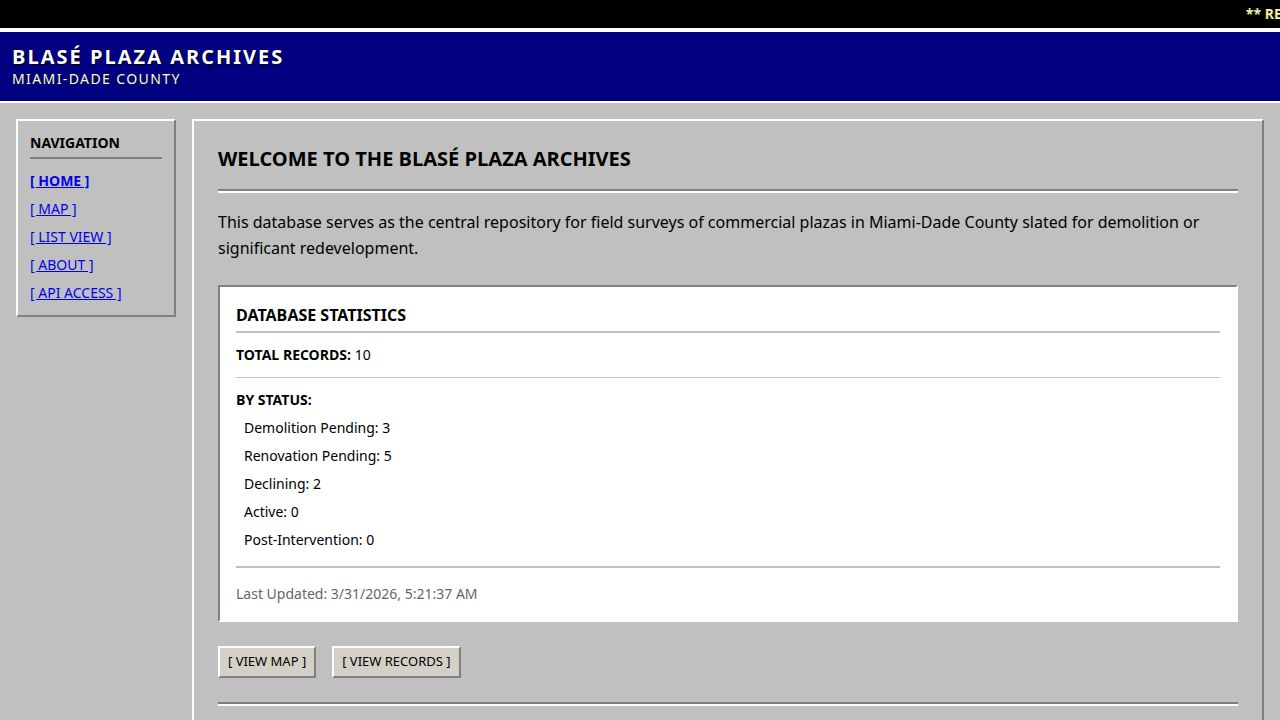
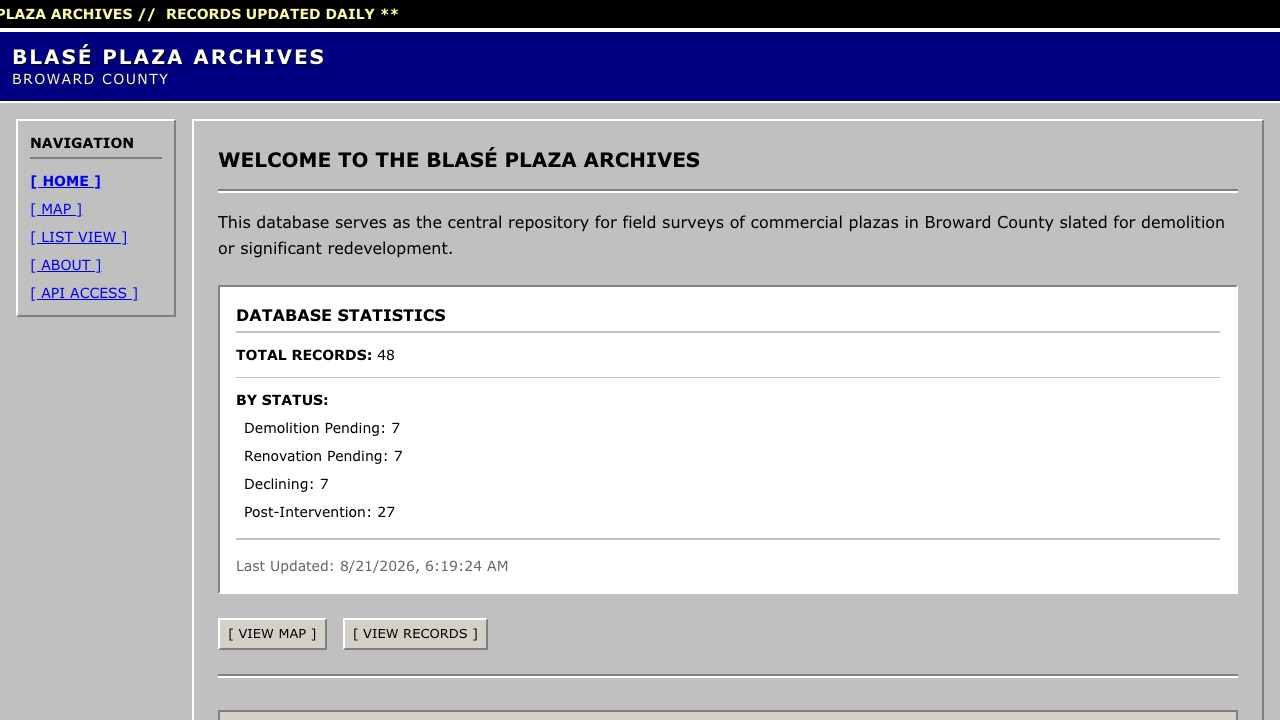
Add a map screenshot to the README and refresh the social preview
Header image is a current capture of the live map view — 48 plazas plotted
across Fort Lauderdale, coloured by horizon, with the legend visible.

Also replaces artifacts/blase-plaza/public/opengraph.jpg, which was the image
shown whenever the site was shared and was badly out of date: it read
"MIAMI-DADE COUNTY", showed 10 records, and listed the Active status that no
longer exists. The new capture shows Broward County, 48 records, and the four
statuses actually in use.

diff --git a/README.md b/README.md
@@ -4,6 +4,8 @@
 
 **[blaseplazas.com](https://blaseplazas.com)**
 
+![The archive's map view: surveyed plazas plotted across Fort Lauderdale, coloured by demolition horizon, in a deliberately 1990s county-government interface.](docs/map.png)
+
 Blasé Plaza Archives documents the ordinary shopping plazas that make up much of Broward County, Florida's commercial landscape. The project treats the shopping plaza as a subject of field study: not necessarily because a particular plaza is architecturally remarkable, but because of its repetition, adaptation, and ubiquity throughout Broward County.
 
 The archive focuses on the period just before demolition or renovation, when a site shows the most information — which units are vacant, how signage and infrastructure have degraded, how many tenants have turned over.
